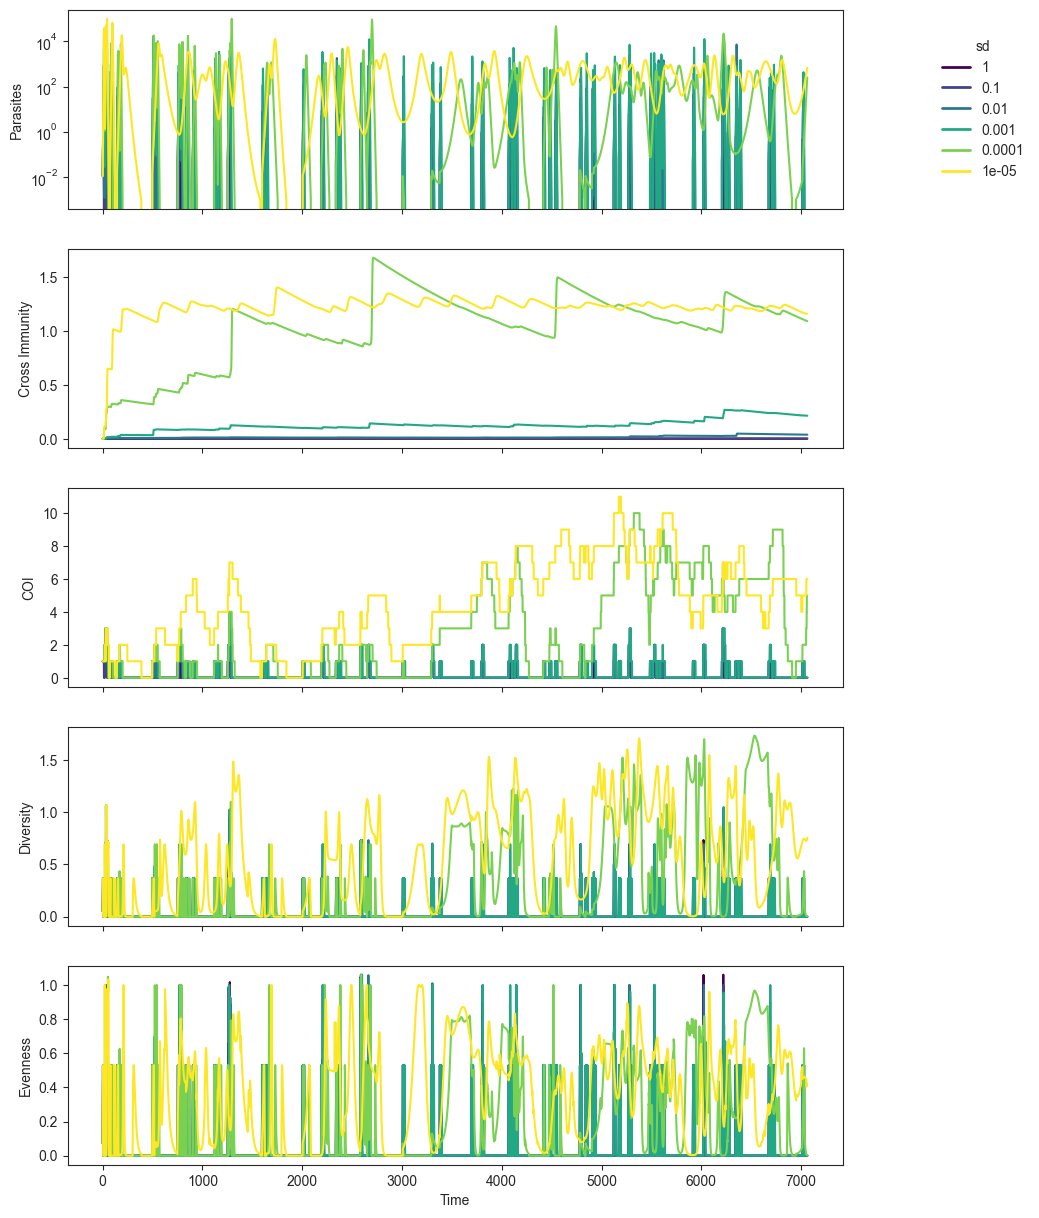
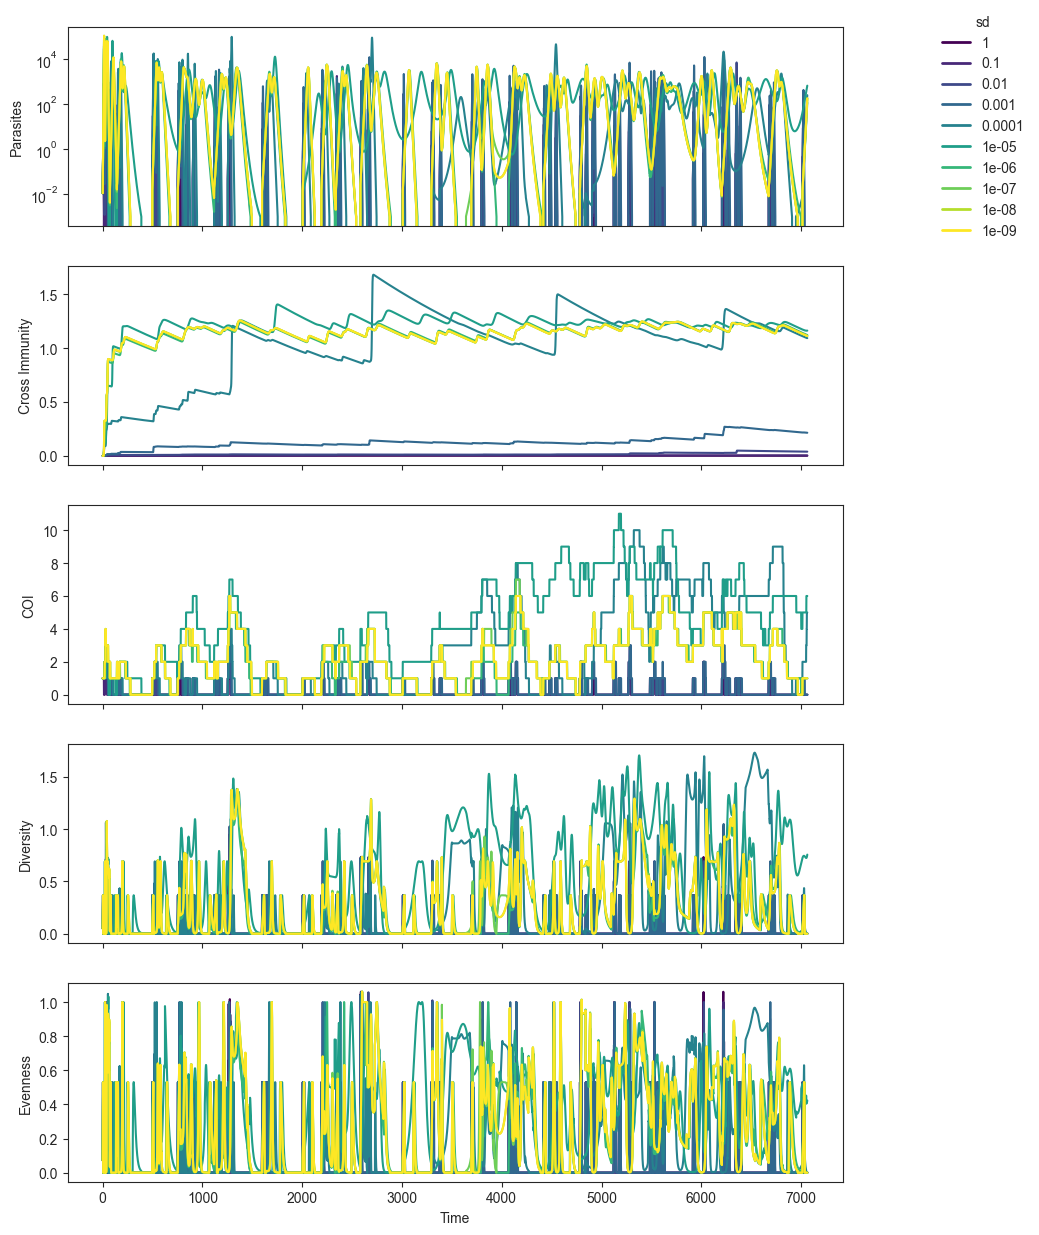
cambios

diff --git a/ode-solver-simulation/src/simulation.py b/ode-solver-simulation/src/simulation.py
@@ -1,7 +1,7 @@
 
 import numpy as np
 import pandas as pd
-from utils import sweep_parameters, runs, params,sweep_mean_infections,shannon_diversity,runs_a
+from utils import sweep_parameters, runs, params,sweep_mean_infections,shannon_diversity,runs_a, sweep_inf_alpha
 from scipy.stats import ttest_ind
 import matplotlib.pyplot as plt
 import plots
@@ -10,31 +10,31 @@ np.random.seed(19680801)
 
 p= params()
 
-#Hypothesis: this should not effect on persistency  
+# #Hypothesis: this should not effect on persistency  
      
-# First simulation: r is a value in a uniform distribution between 0.5 to 1
-r_values_uniform = np.log(np.sort(np.random.uniform(1, 14, 10)))/2
-print('Calculating simulation 1')
-s1= sweep_parameters(p,'r',r_values_uniform)
+# # First simulation: r is a value in a uniform distribution between 0.5 to 1
+# r_values_uniform = np.log(np.sort(np.random.uniform(1, 14, 10)))/2
+# print('Calculating simulation 1')
+# s1= sweep_parameters(p,'r',r_values_uniform)
 
-# Second simulation: r is a randomly picked value in the same uniform distribution for each n_strain
-print('Calculating simulation 2')
-s2= runs('r',p,10)
+# # Second simulation: r is a randomly picked value in the same uniform distribution for each n_strain
+# print('Calculating simulation 2')
+# s2= runs('r',p,10)
 
-#Third simulation: alpha is a value between 7e- 5to 7e-7 
-exponents = np.arange(4, 8, 0.25)
-alpha_values = 7 * 10**(-exponents)
-print('Calculating simulation 3')
-s3= sweep_parameters(p,'a',alpha_values)
+# #Third simulation: alpha is a value between 7e- 5to 7e-7 
+# exponents = np.arange(4, 8, 0.25)
+# alpha_values = 7 * 10**(-exponents)
+# print('Calculating simulation 3')
+# s3= sweep_parameters(p,'a',alpha_values)
 
 
-#Fourth simulation: alpha is randomly picked value from a normal distribution for each n_strain
+# #Fourth simulation: alpha is randomly picked value from a normal distribution for each n_strain
 
-print('Calculating simulation 4')
-s41= runs_a(p,10) #uniforme
-s4,distributions= runs_a(p,10,'normal',[1*(10**-4)])
-sd_values = [1, 10**(-1), 10**(-2),10**(-3),10**(-4),10**(-5),10**(-6),10**(-7),10**(-8),10**(-9)]
-s42,distributions2= runs_a(p,10,'multiNorm',sd_values)
+# print('Calculating simulation 4')
+# s41= runs_a(p,10) #uniforme
+# s4,distributions= runs_a(p,10,'normal',[1*(10**-4)])
+# sd_values = [1, 10**(-1), 10**(-2),10**(-3),10**(-4),10**(-5),10**(-6),10**(-7),10**(-8),10**(-9)]
+# s42,distributions2= runs_a(p,10,'multiNorm',sd_values)
 
 
 
@@ -45,20 +45,24 @@ print('Calculating simulation 5')
 s5=sweep_mean_infections(mean_infections)
 
 # Plot the simulations
-df1=plots.plot_simulations(s1, p, 'r', r_values_uniform, f_name='simulation_plot_s1.png')
-df2=plots.plot_simulations(s2, p, 'r', [s2[i][0] for i in range(len(s2))], f_name='simulation_plot_s2.png')
-df3=plots.plot_simulations(s3, p, 'a', alpha_values, f_name='simulation_plot_s3.png')
-df4=plots.plot_simulations(s4, p, 'a', [s4[i][0] for i in range(len(s4))], f_name='simulation_plot_s4.png')
-df5=plots.plot_simulations(s41, p, 'a', [s41[i][0] for i in range(len(s41))], f_name='simulation_plot_s41.png')
-df6=plots.plot_simulations(s42, p, 'sd', sd_values, f_name='simulation_plot_s42.png')
+# df1=plots.plot_simulations(s1, p, 'r', r_values_uniform, f_name='simulation_plot_s1.png')
+# df2=plots.plot_simulations(s2, p, 'r', [s2[i][0] for i in range(len(s2))], f_name='simulation_plot_s2.png')
+# df3=plots.plot_simulations(s3, p, 'a', alpha_values, f_name='simulation_plot_s3.png')
+# df4=plots.plot_simulations(s4, p, 'a', [s4[i][0] for i in range(len(s4))], f_name='simulation_plot_s4.png')
+# df5=plots.plot_simulations(s41, p, 'a', [s41[i][0] for i in range(len(s41))], f_name='simulation_plot_s41.png')
+# df6=plots.plot_simulations(s42, p, 'sd', sd_values, f_name='simulation_plot_s42.png')
 df7=plots.plot_simulations(s5, p, 'mean infections', mean_infections, f_name='simulation_plot_s5.png')
-#Analysis 
-
-parasites,cross_im,coi,shannon_diversity,shannon_evenness= shannon_diversity(s4[5][1],p['n_strains'])
-plots.figTSeries(s4[5][1],coi, shannon_diversity, shannon_evenness, p)
-distributions['simulation'] = round(distributions['simulation'])
-plots.normal_distributions(distributions)
 
 
+# parasites,cross_im,coi,shannon_diversity,shannon_evenness= shannon_diversity(s4[5][1],p['n_strains'])
+# plots.figTSeries(s4[5][1],coi, shannon_diversity, shannon_evenness, p)
+# distributions['simulation'] = round(distributions['simulation'])
+# plots.normal_distributions(distributions)
+
+# #varying alpha and mean infections 
+# exponents = np.arange(4, 9, 0.2)
+# alpha_values = 7 * 10**(-exponents)
+
+# s6= sweep_inf_alpha('a',mean_infections,alpha_values)
 
 

diff --git a/ode-solver-simulation/src/utils.py b/ode-solver-simulation/src/utils.py
@@ -66,7 +66,7 @@ def runs_a(params, times, distribution='uniform', sd=[1]):
         distributions=[] 
         for i in tqdm(range(times)): 
             p = params.copy()
-            p['a'] = np.abs(np.random.normal(7 * (10**-6), sd[0], p['n_strains']))
+            p['a'] = np.random.normal(7 * (10**-6), sd[0], p['n_strains'])
             sol = solveModel(p)
             results.append((i+1, sol))
             for a_value in p['a']:
@@ -78,7 +78,7 @@ def runs_a(params, times, distribution='uniform', sd=[1]):
         distributions=[] 
         for i in tqdm(range(len(sd))): 
             p = params.copy()
-            p['a'] = np.abs(np.random.normal(7 * (10**-6), sd[i], p['n_strains']))
+            p['a'] = np.random.normal(7 * (10**-6), sd[i], p['n_strains'])
             sol = solveModel(p) 
             results.append((sd[i], sol))
             for a_value in p['a']:
@@ -98,7 +98,33 @@ def runs_a(params, times, distribution='uniform', sd=[1]):
                 distributions.append((i+1, a_value))
         return results
     
-        
+def sweep_inf_alpha(param1, values1, values2):
+    results = []
+    for value1 in tqdm(values1):
+        p = params(mean_infections_per_season=value1)
+        for value2 in values2:
+            p = p.copy()
+            p[param1] = value2
+            sol = solveModel(p)
+            results.append((value1, value2, sol))
+    return results
+
+def mixed_results(results):
+    data = []
+    for value1, value2, sol in results:
+        parasites, cross_im, coi, diversity, evenness = shannon_diversity(sol, sol.y.shape[0] - 1)
+        for i in range(len(parasites)):
+            data.append({
+                'mean_infections': value1,
+                'a': value2,
+                'parasites': parasites[i],
+                'coi': coi[i],
+                'diversity': diversity[i],
+                'evenness': evenness[i],
+                'cross_im': cross_im[i]
+            })
+    df = pd.DataFrame(data)
+    return df
 
 def shannon_diversity(sol,n_strains):
     parasites = np.array(sol.y[0:n_strains, :].sum(axis=0))

diff --git a/ode-solver-simulation/src/plots.py b/ode-solver-simulation/src/plots.py
@@ -175,7 +175,7 @@ def plot_simulations(simulations, params, param_name, param_values, f_name='simu
             cross_im_all.append(cross_im[j])
             coi_all.append(coi[j])
             simulation.append(simulations[i][0])
-            times.append(sol.t[i])
+            times.append(sol.t[j])
         
         
 
